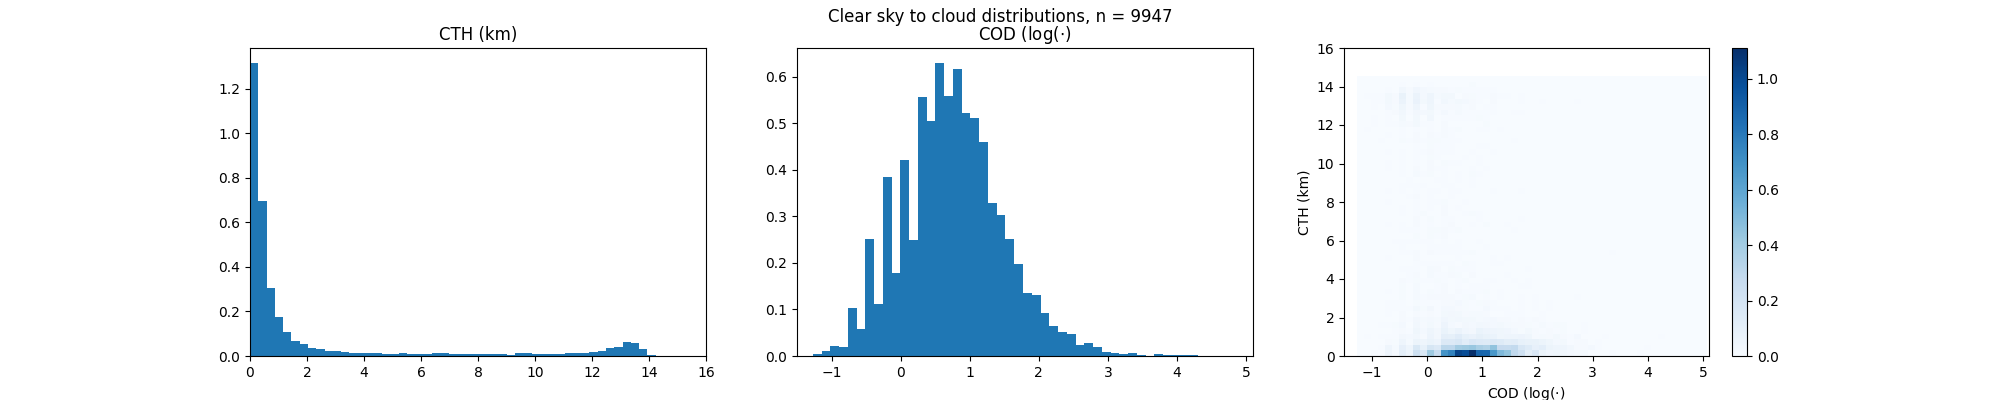
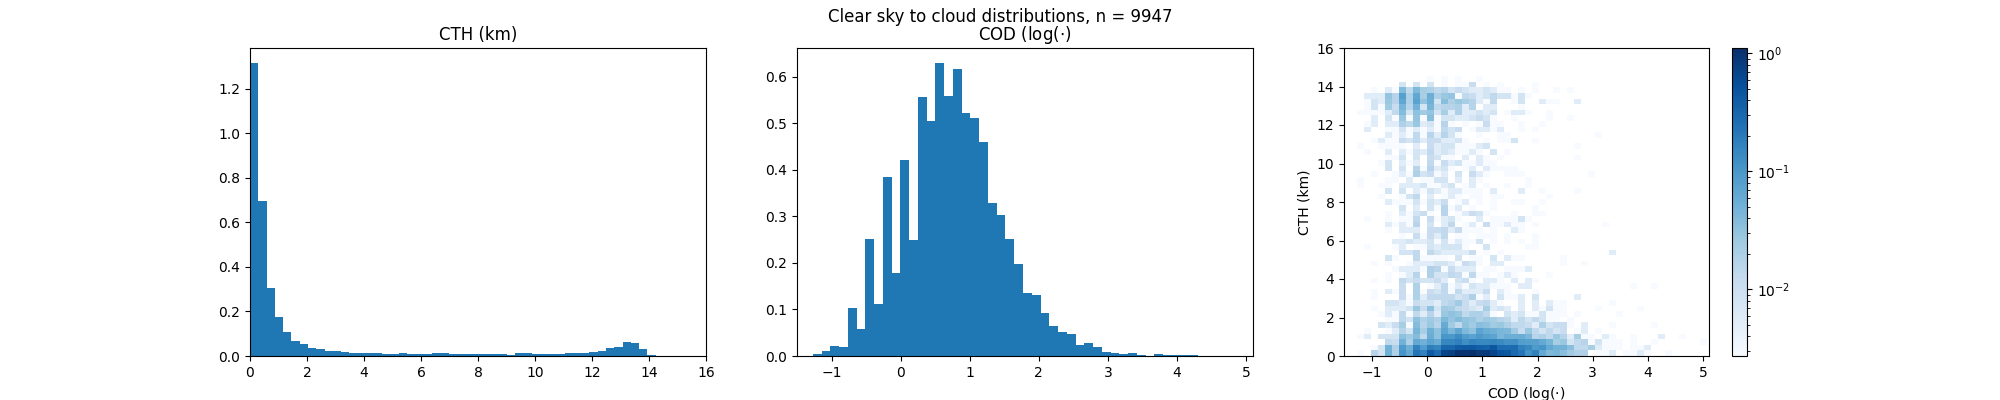
fi

diff --git a/src/model1_plots.py b/src/model1_plots.py
@@ -71,7 +71,7 @@ def plot_distribution_next_cloud(df, title = None, nbins = 50, **kwargs):
     bins = [nbins, nbins]
     h = ax[2].hist2d(df.d_t_next, df.h_t_next*1e-3, bins=bins, 
                      cmap=plt.cm.Blues,
-                       norm=mpl.colors.lognorm(),
+                       norm=mpl.colors.LogNorm(),
                      **kwargs)
     ax[2].set_xlabel('COD (log($\cdot$)')
     ax[2].set_ylabel('CTH (km)')
